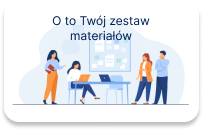
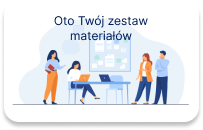
Change background page

Changed region(s): [[0.2365, 0.0923, 0.7389, 0.2154]]

diff --git a/src/styles/globals.scss b/src/styles/globals.scss
@@ -73,15 +73,15 @@ div#__next {
 }
 
 main {
-  @apply grid justify-items-center items-center py-6 h-full bg-no-repeat bg-top relative bg-cover;
-  background-image: url('../../public/img/Background.png');
+  @apply grid justify-items-center items-center py-6 h-full bg-no-repeat bg-center relative bg-cover;
+  background-image: url('../../public/img/pexels-pixabay-326259.png');
   min-height: 913px;
   padding-bottom: 98px;
   max-width: 1190px;
 
-  @media (min-width: 1010px) {
-    background-size: 1190px auto;
-  }
+  //@media (min-width: 1010px) {
+  //  background-size: 1190px auto;
+  //}
 
   @media (min-width: 1190px) {
     width: 1190px;

diff --git a/src/styles/index.module.scss b/src/styles/index.module.scss
@@ -1,5 +1,5 @@
 .title {
-  @apply text-center text-xl w-full;
+  @apply text-center text-xl w-full bg-white rounded-md p-3;
   max-width: 498px;
   margin-bottom: 40.5px;
 }
@@ -9,7 +9,7 @@
 }
 
 .startP {
-  @apply absolute top-8 left-10 text-lg;
+  @apply absolute top-8 left-10 text-lg text-white;
 }
 
 .introBox {
